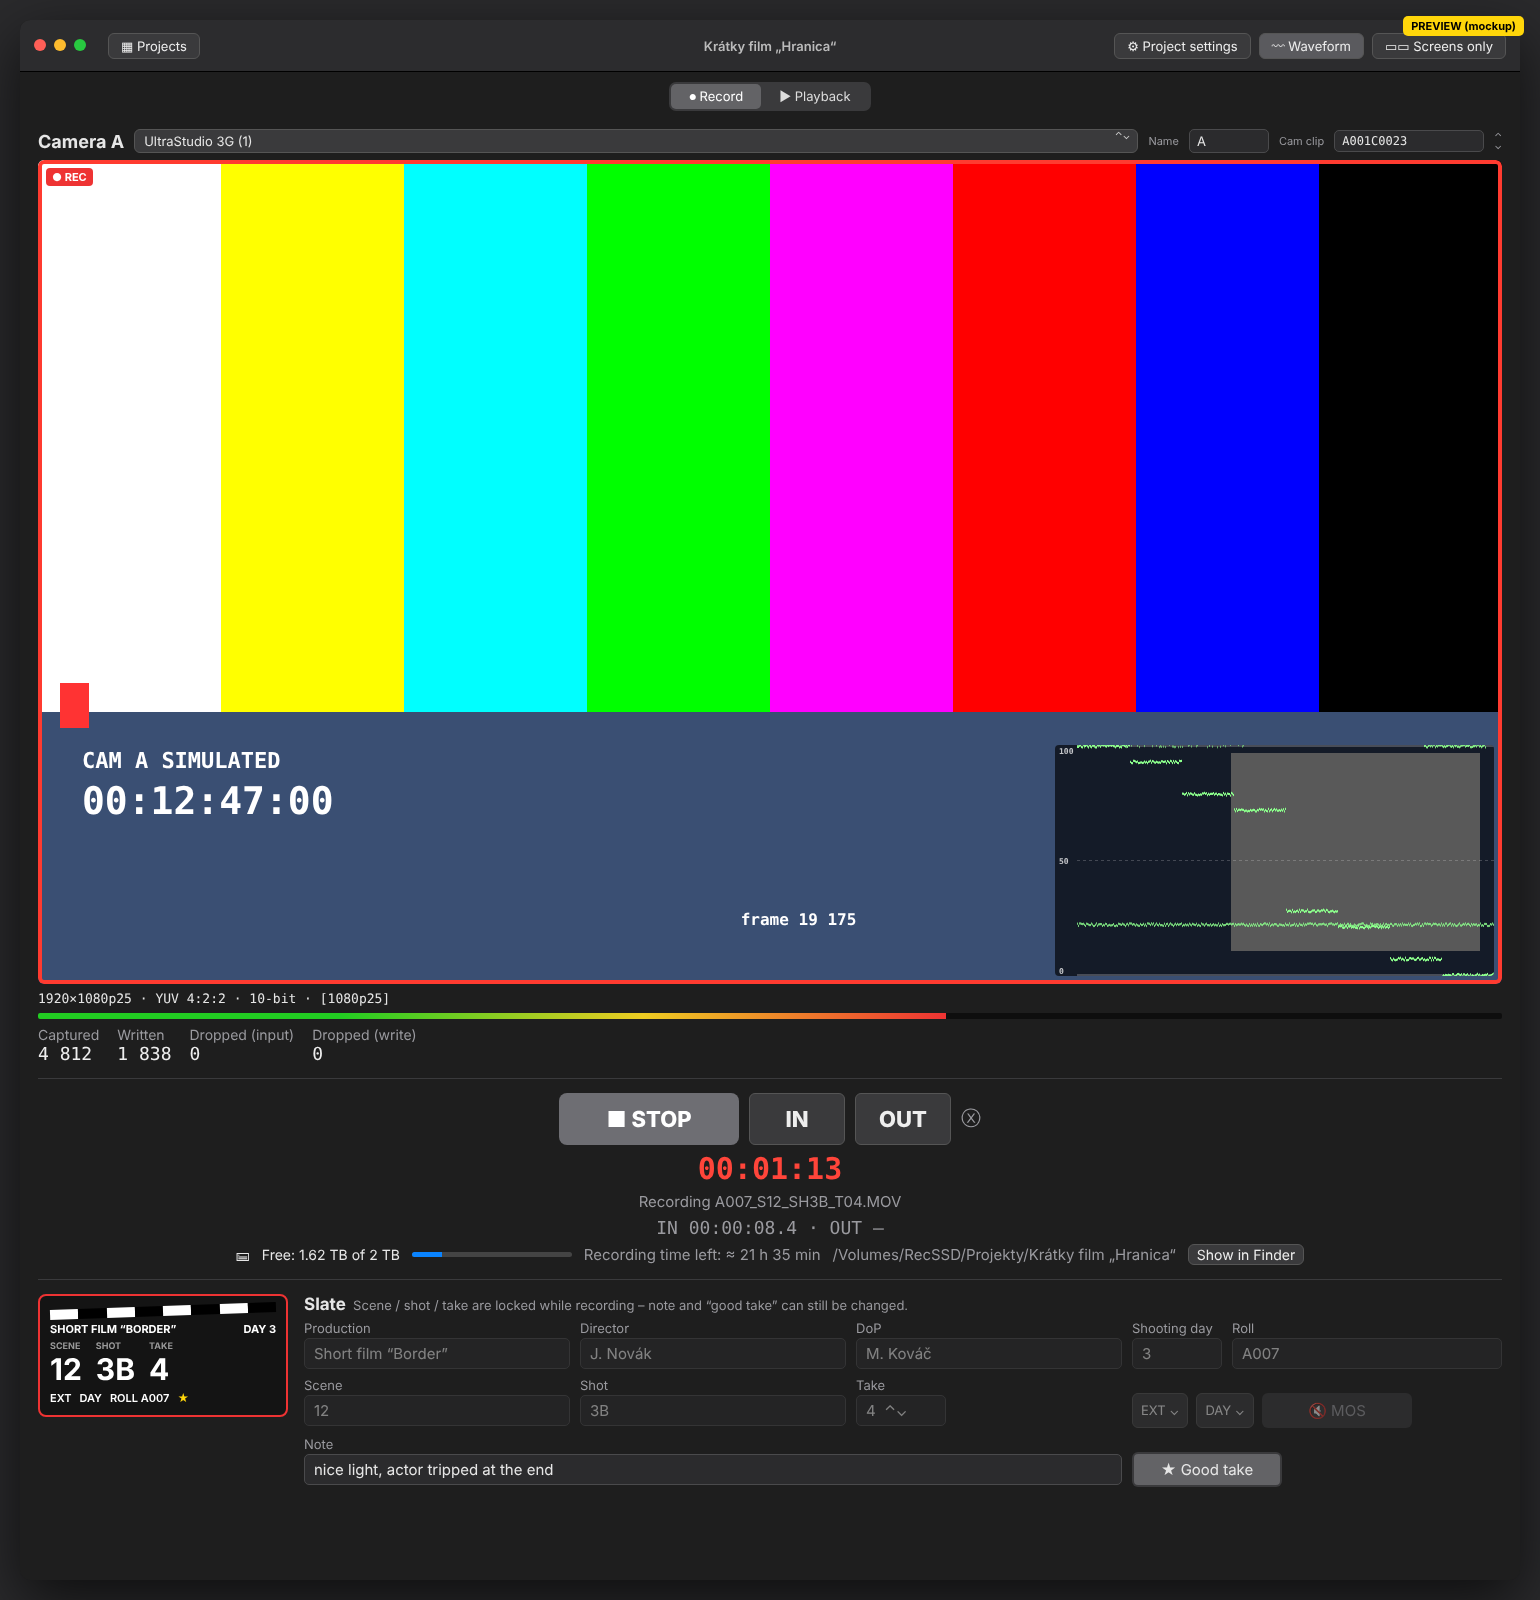
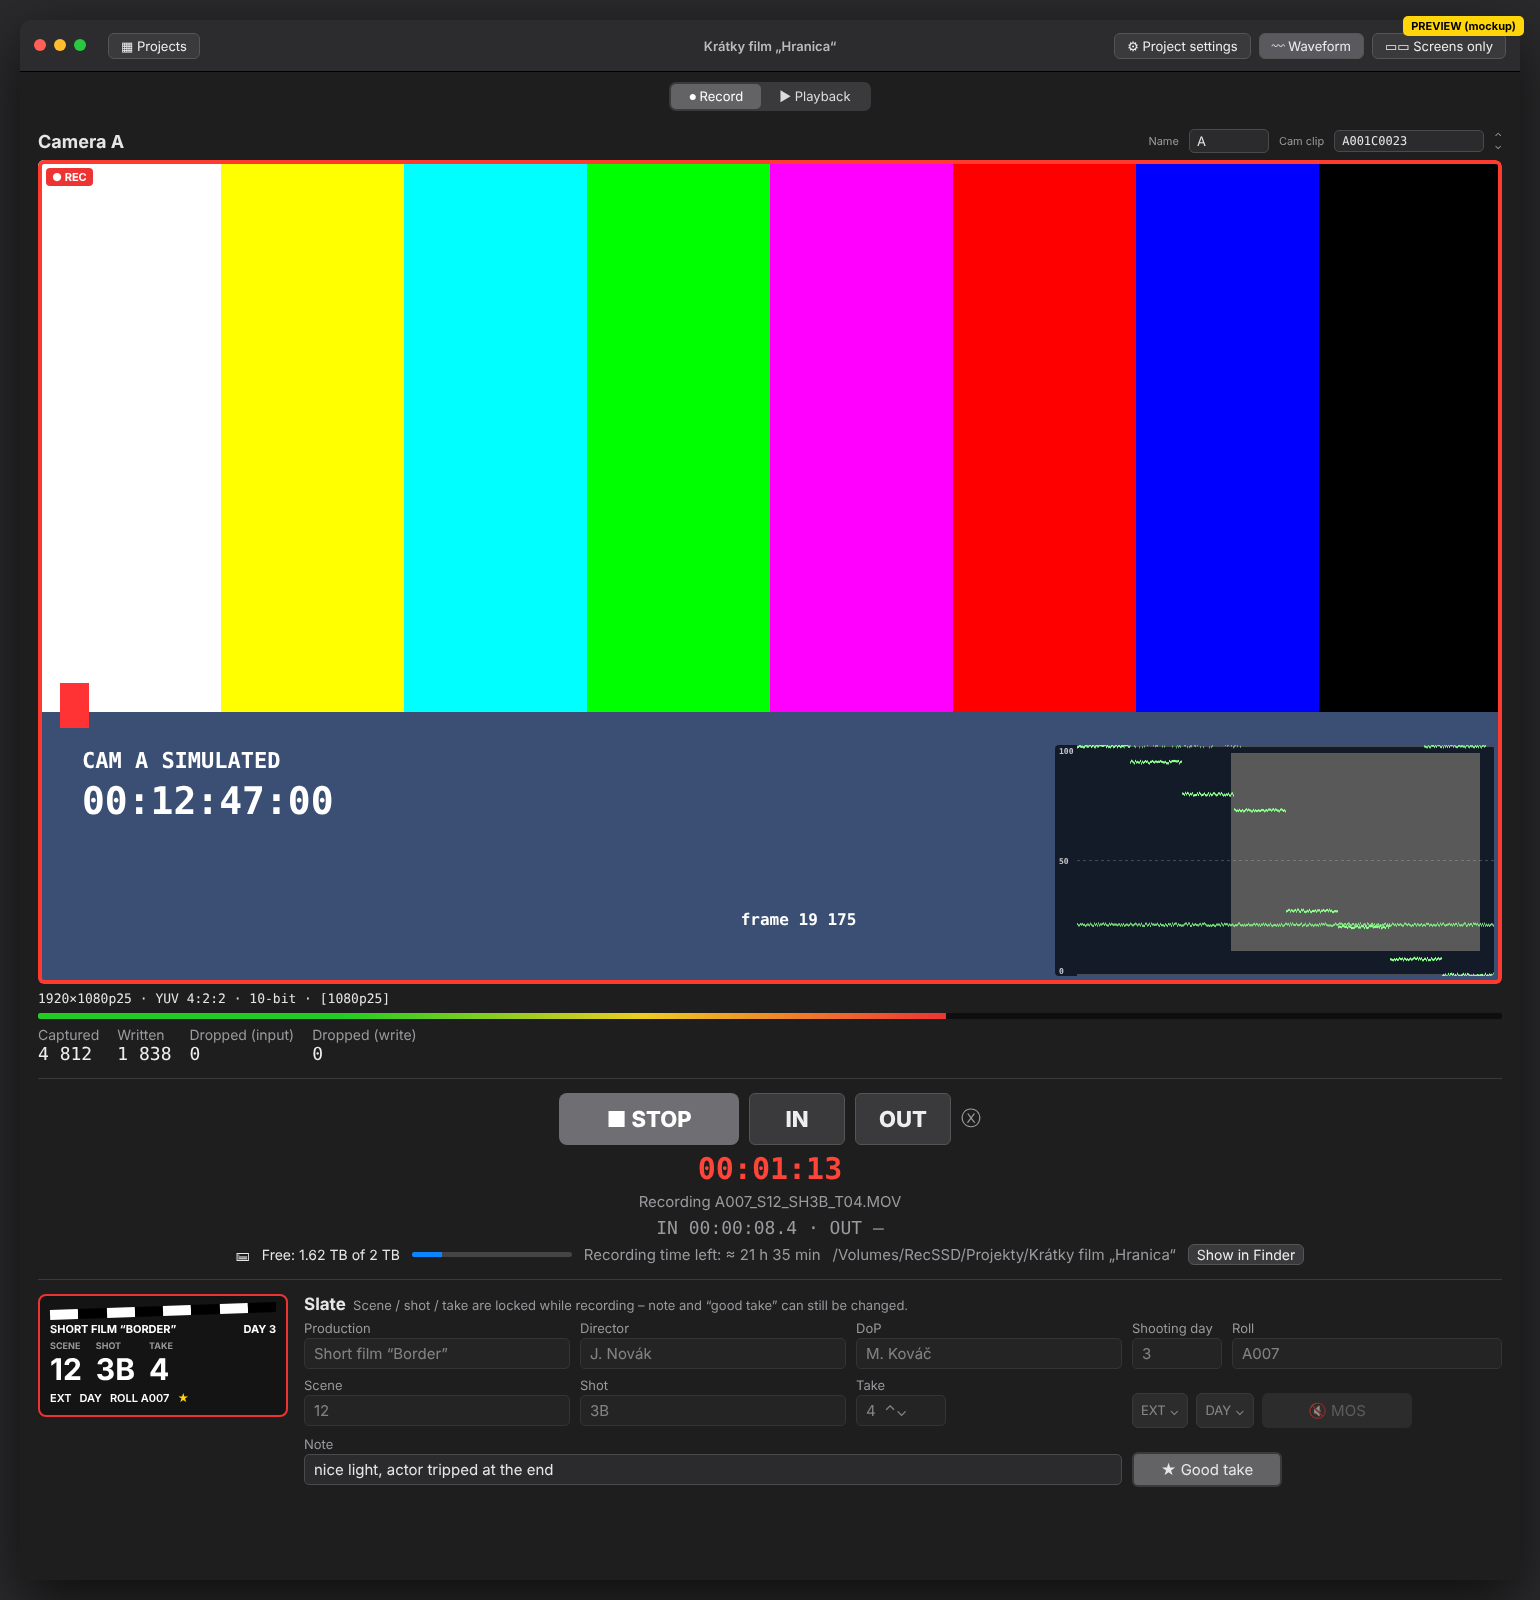
Remove the input device picker from Record (set in Project settings)
Claude-Session: https://claude.ai/code/session_01SjxyfTkJQH7RKsrkA8EJQA

Changed region(s): [[0.0935, 0.0625, 0.7481, 0.0938], [0.8416, 0.5625, 0.8727, 0.5938]]

diff --git a/DualCamRecorder/Views/RecordView.swift b/DualCamRecorder/Views/RecordView.swift
@@ -182,15 +182,8 @@ struct CameraPanel: View {
             HStack {
                 Text("Camera \(channel.role.rawValue)")
                     .font(.title3.weight(.bold))
-                Picker("", selection: Binding(
-                    get: { controller.assignedID(channel.role) },
-                    set: { controller.assign($0, to: channel.role) })) {
-                    ForEach(controller.deviceOptions) { option in
-                        Text(option.title).tag(option.id)
-                    }
-                }
-                .labelsHidden()
-                .disabled(controller.isRecording)
+                // Input device is chosen in Project settings.
+                Spacer(minLength: 12)
                 Text("Name").font(.caption).foregroundStyle(.secondary)
                 TextField("A", text: Binding(
                     get: { channel.role == .a ? controller.settings.cameraNameA : controller.settings.cameraNameB },
